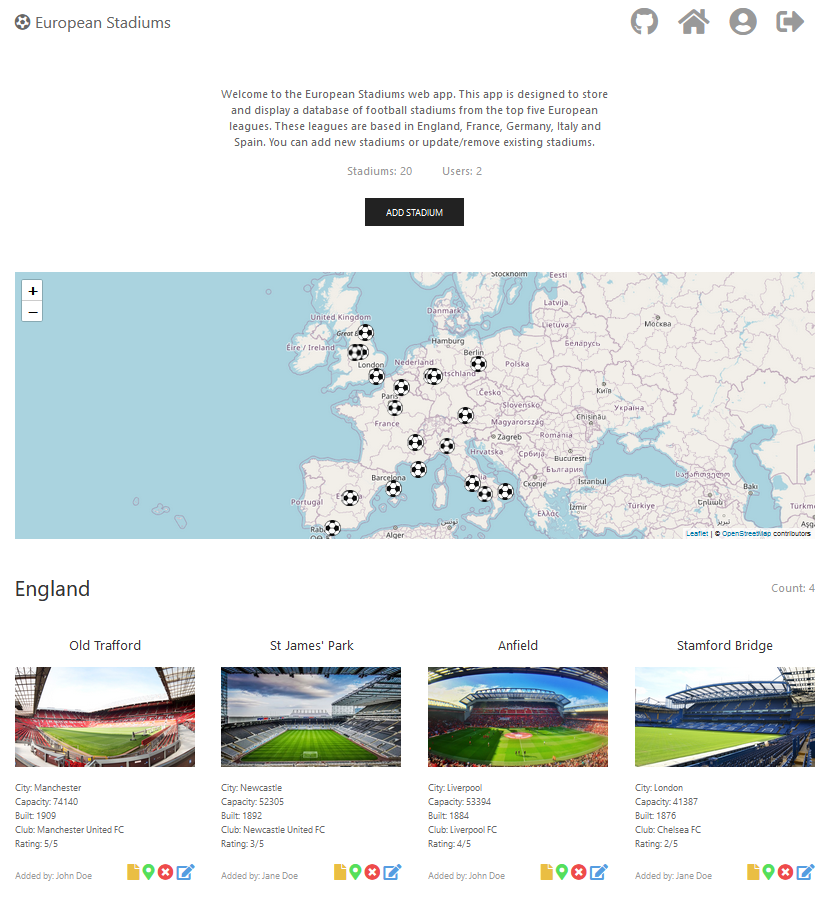
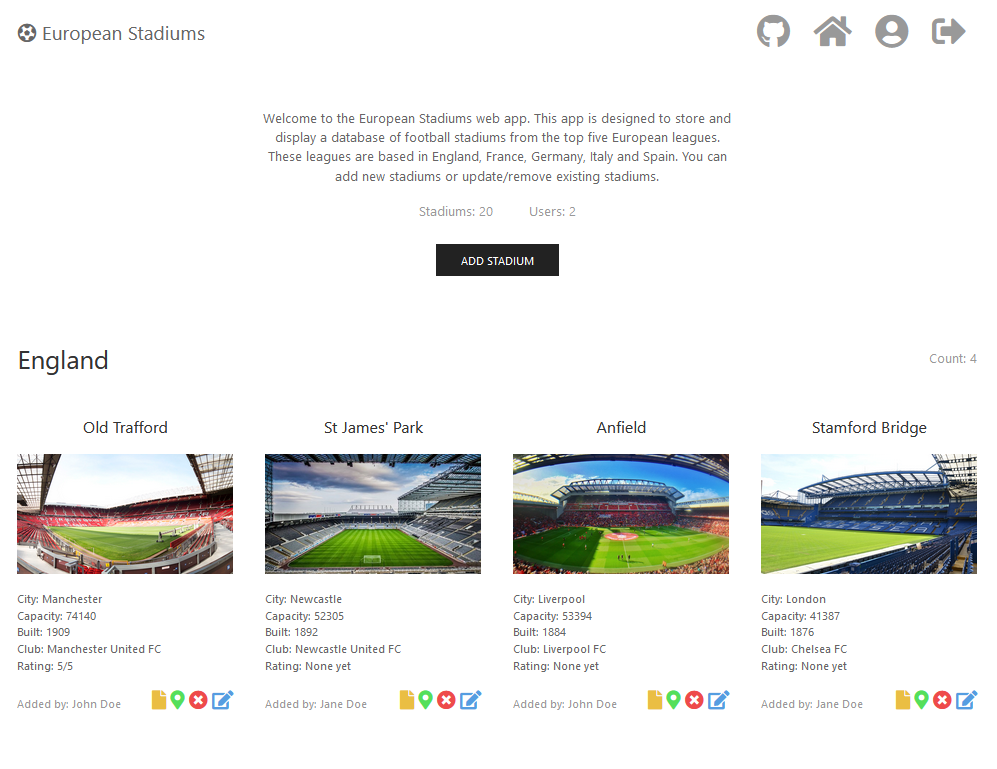
Updated README, custom CSS, linked to Heroku app

diff --git a/index.html b/index.html
@@ -1,34 +1,29 @@
 <!DOCTYPE html>
 <html lang="en">
-  <head>
-    <title>European Stadiums App</title>
-    <meta charset="UTF-8" />
 
-    <!-- UIkit CSS -->
-    <link rel="stylesheet" href="https://cdn.jsdelivr.net/npm/uikit@3.5.9/dist/css/uikit.min.css" />
+<head>
+  <title>European Stadiums App</title>
+  <meta charset="UTF-8" />
 
-    <!-- UIkit JS -->
-    <script src="https://cdn.jsdelivr.net/npm/uikit@3.5.9/dist/js/uikit.min.js"></script>
-    <script src="https://cdn.jsdelivr.net/npm/uikit@3.5.9/dist/js/uikit-icons.min.js"></script>
+  <!-- UIkit CSS -->
+  <link rel="stylesheet" href="https://cdn.jsdelivr.net/npm/uikit@3.5.9/dist/css/uikit.min.css" />
 
-    <!-- Font Awesome -->
-    <link
-        rel="stylesheet"
-        href="https://cdnjs.cloudflare.com/ajax/libs/font-awesome/5.15.1/css/all.min.css"
-        integrity="sha512-+4zCK9k+qNFUR5X+cKL9EIR+ZOhtIloNl9GIKS57V1MyNsYpYcUrUeQc9vNfzsWfV28IaLL3i96P9sdNyeRssA=="
-        crossorigin="anonymous"
-    />
+  <!-- UIkit JS -->
+  <script src="https://cdn.jsdelivr.net/npm/uikit@3.5.9/dist/js/uikit.min.js"></script>
+  <script src="https://cdn.jsdelivr.net/npm/uikit@3.5.9/dist/js/uikit-icons.min.js"></script>
 
-    <!-- Custom CSS -->
-    <link rel="stylesheet" href="main.css" type="text/css">
-    
-    <link rel="icon" href="/favicon.ico" />
-    <meta name="viewport" content="width=device-width, initial-scale=1.0" />
-  </head>
+  <!-- Font Awesome -->
+  <link rel="stylesheet" href="https://cdnjs.cloudflare.com/ajax/libs/font-awesome/5.15.1/css/all.min.css"
+    integrity="sha512-+4zCK9k+qNFUR5X+cKL9EIR+ZOhtIloNl9GIKS57V1MyNsYpYcUrUeQc9vNfzsWfV28IaLL3i96P9sdNyeRssA=="
+    crossorigin="anonymous" />
 
-  <body>
-    <div id="app"></div>
-    <script type="module" src="/src/main.js"></script>
-  </body>
-  
+  <link rel="icon" href="/favicon.ico" />
+  <meta name="viewport" content="width=device-width, initial-scale=1.0" />
+</head>
+
+<body>
+  <div id="app"></div>
+  <script type="module" src="/src/main.js"></script>
+</body>
+
 </html>

diff --git a/src/App.svelte b/src/App.svelte
@@ -18,7 +18,7 @@
     import DeleteStadium from "./components/DeleteStadium.svelte";
     import DeleteUser from "./components/DeleteUser.svelte";
 
-    setContext("StadiumService", new StadiumService("http://localhost:4000"));
+    setContext("StadiumService", new StadiumService("https://european-stadiums.herokuapp.com"));
 
     let routes = {
         "/": Main,

diff --git a/src/components/ListStadiums.svelte b/src/components/ListStadiums.svelte
@@ -163,3 +163,13 @@
         </div>
     {/each}
 </div>
+
+<style>
+    .stadium-thumbnail {
+        height: 150px;
+        width: 100%;
+        background-size: cover;
+        background-position: center;
+        background-repeat: no-repeat;
+    }
+</style>

diff --git a/README.md b/README.md
@@ -26,6 +26,7 @@ This app is based on the server-rendered version of the app and makes use of it'
 
 - HTML, JavaScript, CSS
 - Svelte
+- [ViteJS](https://vitejs.dev/)
 - [UIKit](https://getuikit.com/)
 - [svelte-spa-router](https://www.npmjs.com/package/svelte-spa-router)
 
